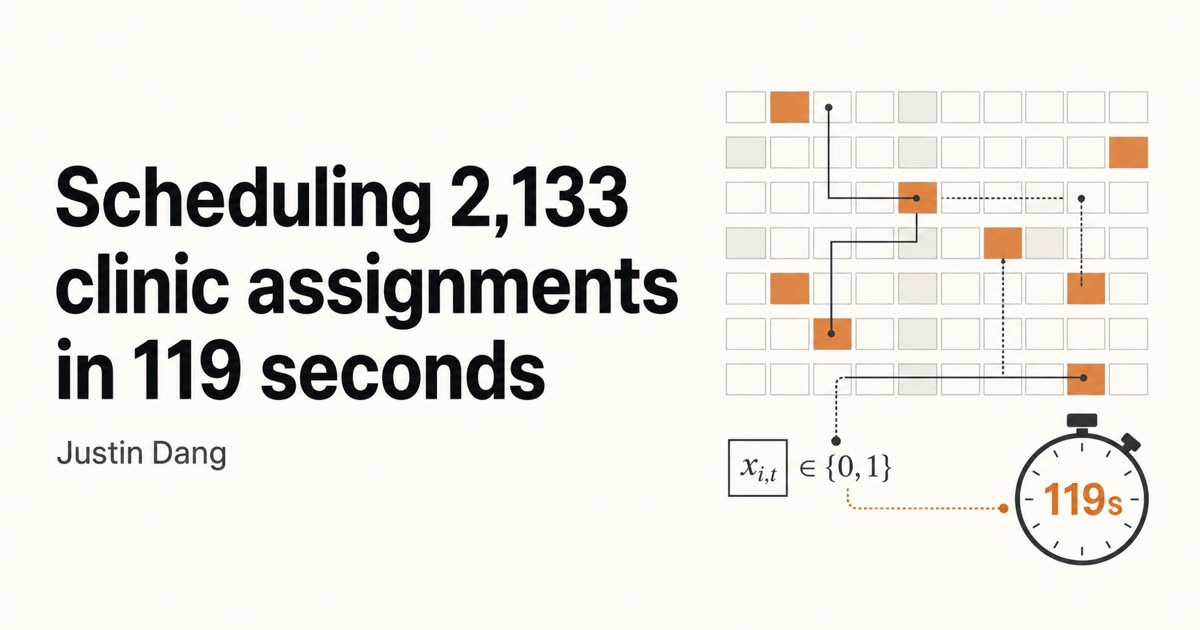
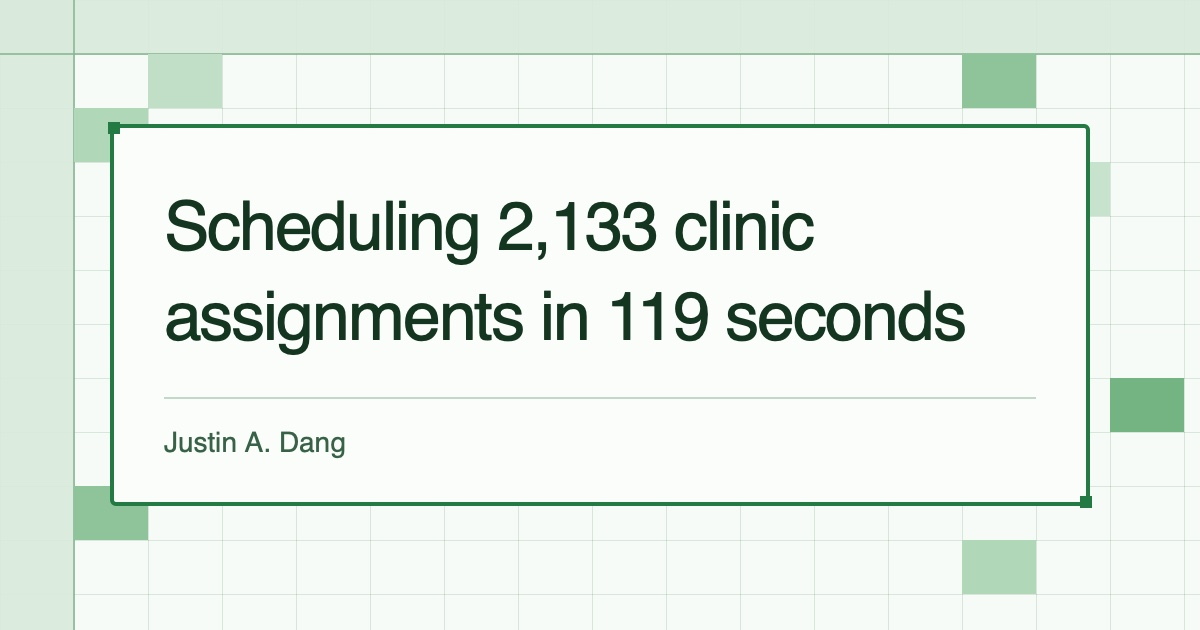
Refine clinic article social card

diff --git a/src/routes/clinic-schedule-solver/+page.svelte b/src/routes/clinic-schedule-solver/+page.svelte
@@ -3,7 +3,7 @@
 </script>
 
 <svelte:head>
-	<title>Scheduling 2,133 clinic assignments in 119 seconds — Justin Dang</title>
+	<title>Scheduling 2,133 clinic assignments in 119 seconds — Justin A. Dang</title>
 	<meta
 		name="description"
 		content="The 119-second solve was one part of a longer process: translating clinical knowledge into explicit rules, validating the result, and carrying it through faculty publication."
@@ -21,7 +21,7 @@
 	<meta property="og:image:height" content="630" />
 	<meta
 		property="og:image:alt"
-		content="Scheduling 2,133 clinic assignments in 119 seconds by Justin Dang"
+		content="Scheduling 2,133 clinic assignments in 119 seconds by Justin A. Dang"
 	/>
 	<meta name="twitter:card" content="summary_large_image" />
 	<meta name="twitter:title" content="Scheduling 2,133 clinic assignments in 119 seconds" />
@@ -32,7 +32,7 @@
 	<meta name="twitter:image" content="https://justindang.dev/clinic-schedule-solver-og.jpg" />
 	<meta
 		name="twitter:image:alt"
-		content="Scheduling 2,133 clinic assignments in 119 seconds by Justin Dang"
+		content="Scheduling 2,133 clinic assignments in 119 seconds by Justin A. Dang"
 	/>
 </svelte:head>
 
@@ -56,7 +56,7 @@
 			</p>
 			<p class="text-muted-foreground mt-5 text-sm">
 				By <a href="/" class="hover:text-foreground underline underline-offset-2 transition-colors"
-					>Justin Dang</a
+					>Justin A. Dang</a
 				>
 				· August 17, 2026
 			</p>
